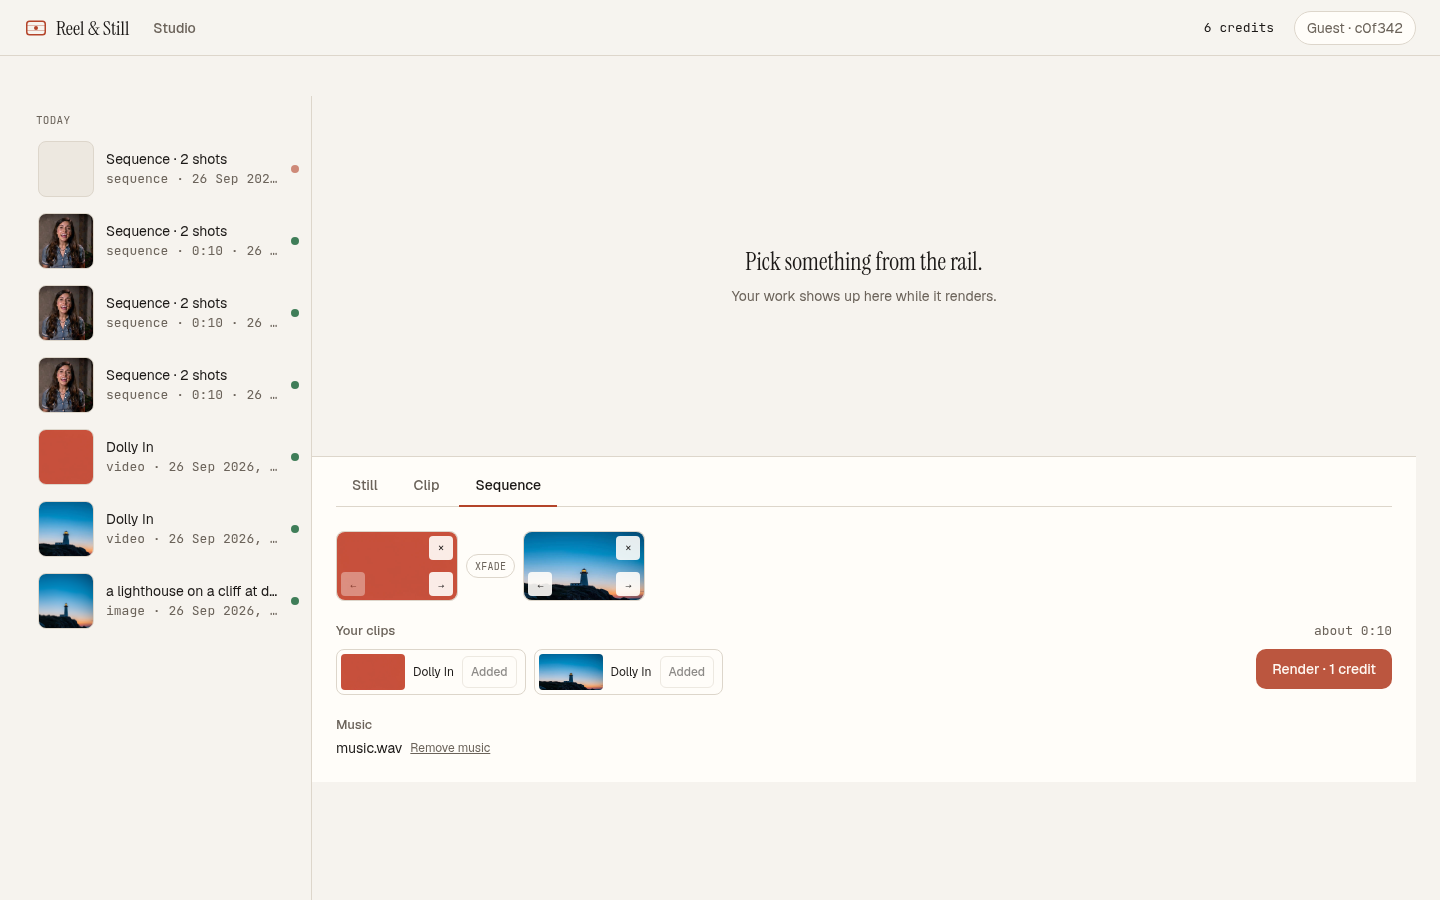
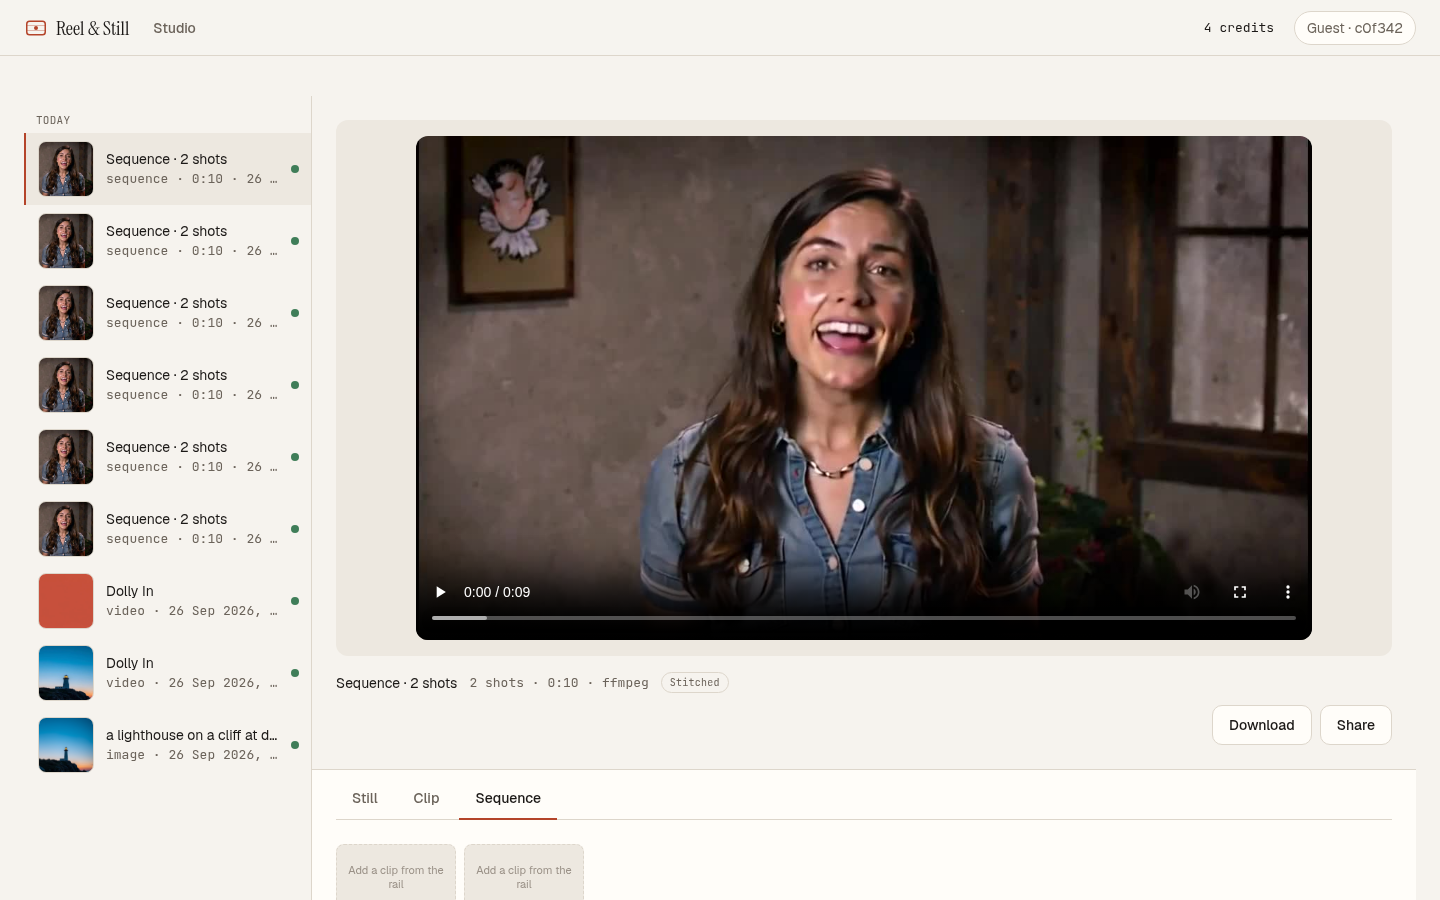
T-010-14: closing live pass, sequence render verified with and without music

diff --git a/docs/verification/T-010-14/report.md b/docs/verification/T-010-14/report.md
@@ -2,7 +2,7 @@
 
 Site: https://api-production-8afc.up.railway.app. Bundle under test: `index-C-L3mFa5.js`. Playwright + Chromium, 1440x900, light theme unless noted. No code changed.
 
-**Overall: FAIL.** One new blocker: after Render, the stage never shows the sequence (progress or result) until a reload. Everything else works after the fixes.
+**Overall: PASS** (closing pass on bundle `index-DJITqEpT.js`, after e77192d). The earlier blocker P1 is fixed and re-verified. Everything else works after the fixes.
 
 ## Steps
 
@@ -23,7 +23,7 @@ Credit path for the guest: 60 grant, still 10, clip 20, clip 20, sequence 1 (twi
 
 ## Problems
 
-- **P1 (blocker, open): the stage ignores a freshly rendered sequence.** After "Render · 1 credit" the URL gets `item=0801359c-...` and the rail shows the item, but the stage stays "Pick something from the rail. Your work shows up here while it renders." for 2+ minutes, with 0 videos. A reload of `/studio?item=630c2eb2-...` shows the stage correctly: "2 shots · 0:10 · ffmpeg", "Stitched", Download, Share. Same class as the fixed still bug. Not an id mix-up: 0801359c... was my second render and 630c2eb2... the first; the URL item always equalled the API job id (checked on 3 renders: 0801359c, 17f2d13a, 87eeb37e). `onJobStarted` receives the 202 `data.id` (`apps/web/src/api/sequenceJobs.ts`). Also seen on each render: the Sequence draft (2 clips, XFADE, music) is not cleared, the new rail row is not highlighted, no console/page errors, and no `/jobs` refetch after the navigation. Screenshot: `05-seq-render-watch.png`.
+- **P1 (blocker, FIXED and re-verified, see "Closing pass"): the stage ignores a freshly rendered sequence.** After "Render · 1 credit" the URL gets `item=0801359c-...` and the rail shows the item, but the stage stays "Pick something from the rail. Your work shows up here while it renders." for 2+ minutes, with 0 videos. A reload of `/studio?item=630c2eb2-...` shows the stage correctly: "2 shots · 0:10 · ffmpeg", "Stitched", Download, Share. Same class as the fixed still bug. Not an id mix-up: 0801359c... was my second render and 630c2eb2... the first; the URL item always equalled the API job id (checked on 3 renders: 0801359c, 17f2d13a, 87eeb37e). `onJobStarted` receives the 202 `data.id` (`apps/web/src/api/sequenceJobs.ts`). Also seen on each render: the Sequence draft (2 clips, XFADE, music) is not cleared, the new rail row is not highlighted, no console/page errors, and no `/jobs` refetch after the navigation. Screenshot: `05-seq-render-watch.png`.
 - **P2 (fixed, see table):** empty `images` for stills, stuck "Rendering", "Describe the image first." hint, seed lost on "Animate this", double guest POST, stale balance.
 - **P3 (minor):** ledger rows read "Hold" / "Settled" / "Welcome grant", not HOLD / SETTLE / TOPUP as in AC-7. Cosmetic.
 - **P4 (minor):** share page top bar still shows a "Studio" link ("Reel & Still | Studio | Sequence | 2 shots · 0:10 | Make your own"). AC-18 asks for no studio UI.
@@ -45,3 +45,16 @@ Repro on live with the same 2 clips + XFADE:
 - Without music: draft becomes `{"clips":[],"audio":null}`, the stage shows progress after ~2 s, and the SSE and `/sequence-jobs/<id>` requests fire.
 
 Cause: `useSequenceDraft` returned a new `setAudio` every render, closed over that render's draft. `MusicDropZone`'s `useSyncReadyAudio` effect depends on `setAudio`, so while an uploaded music file was in the "ready" state it re-ran after every render and re-wrote the draft with `{...draft, audio}`, undoing `clearDraft` and keeping the render loop busy. Fix: stable functional updaters (`setDraft(prev => ...)`) and a no-op `withAudio` for the same audio (`useSequenceDraft.ts`, `draftOps.ts`, tests in `draftOps.test.ts`).
+
+## Closing pass (fresh context, new guest, 60 credits, bundle `index-DJITqEpT.js`)
+
+One `POST /auth/guest`. Two uploaded clips (`248d008e-a8be-4f24-9cee-6d6f39fdfbed`, `e8e15db0-cbef-4410-8bf1-72829173299b`), then the Sequence tab with both clips and XFADE.
+
+| Run | Sequence job | Strip cleared | Stage progress | Plays without reload | Balance |
+|---|---|---|---|---|---|
+| With music (`music.wav`) | `6358dca9-e7f4-4a69-a824-8cf35c7623ad` | yes | "Queued/Rendering" shown ~11 s after the click | yes, "2 shots · 0:10 · ffmpeg", "Stitched" at ~29 s | 20 -> 19 |
+| Without music | `bb1a6912-0b64-4581-a03d-847dd99d8eea` | yes | ~12 s | yes, ~27 s | 19 -> 18 |
+
+Screenshots: `final-music-*.png`, `final-nomusic-*.png`. No page errors; the only console error is the `/me` 401 on a cold visit.
+
+Remaining notes (not blockers): the URL/progress appears ~8-9 s after the click, not ~2 s, because the `POST /sequence-jobs` response is slow; the two minors P3 and P4 stand as accepted by the orchestrator.
